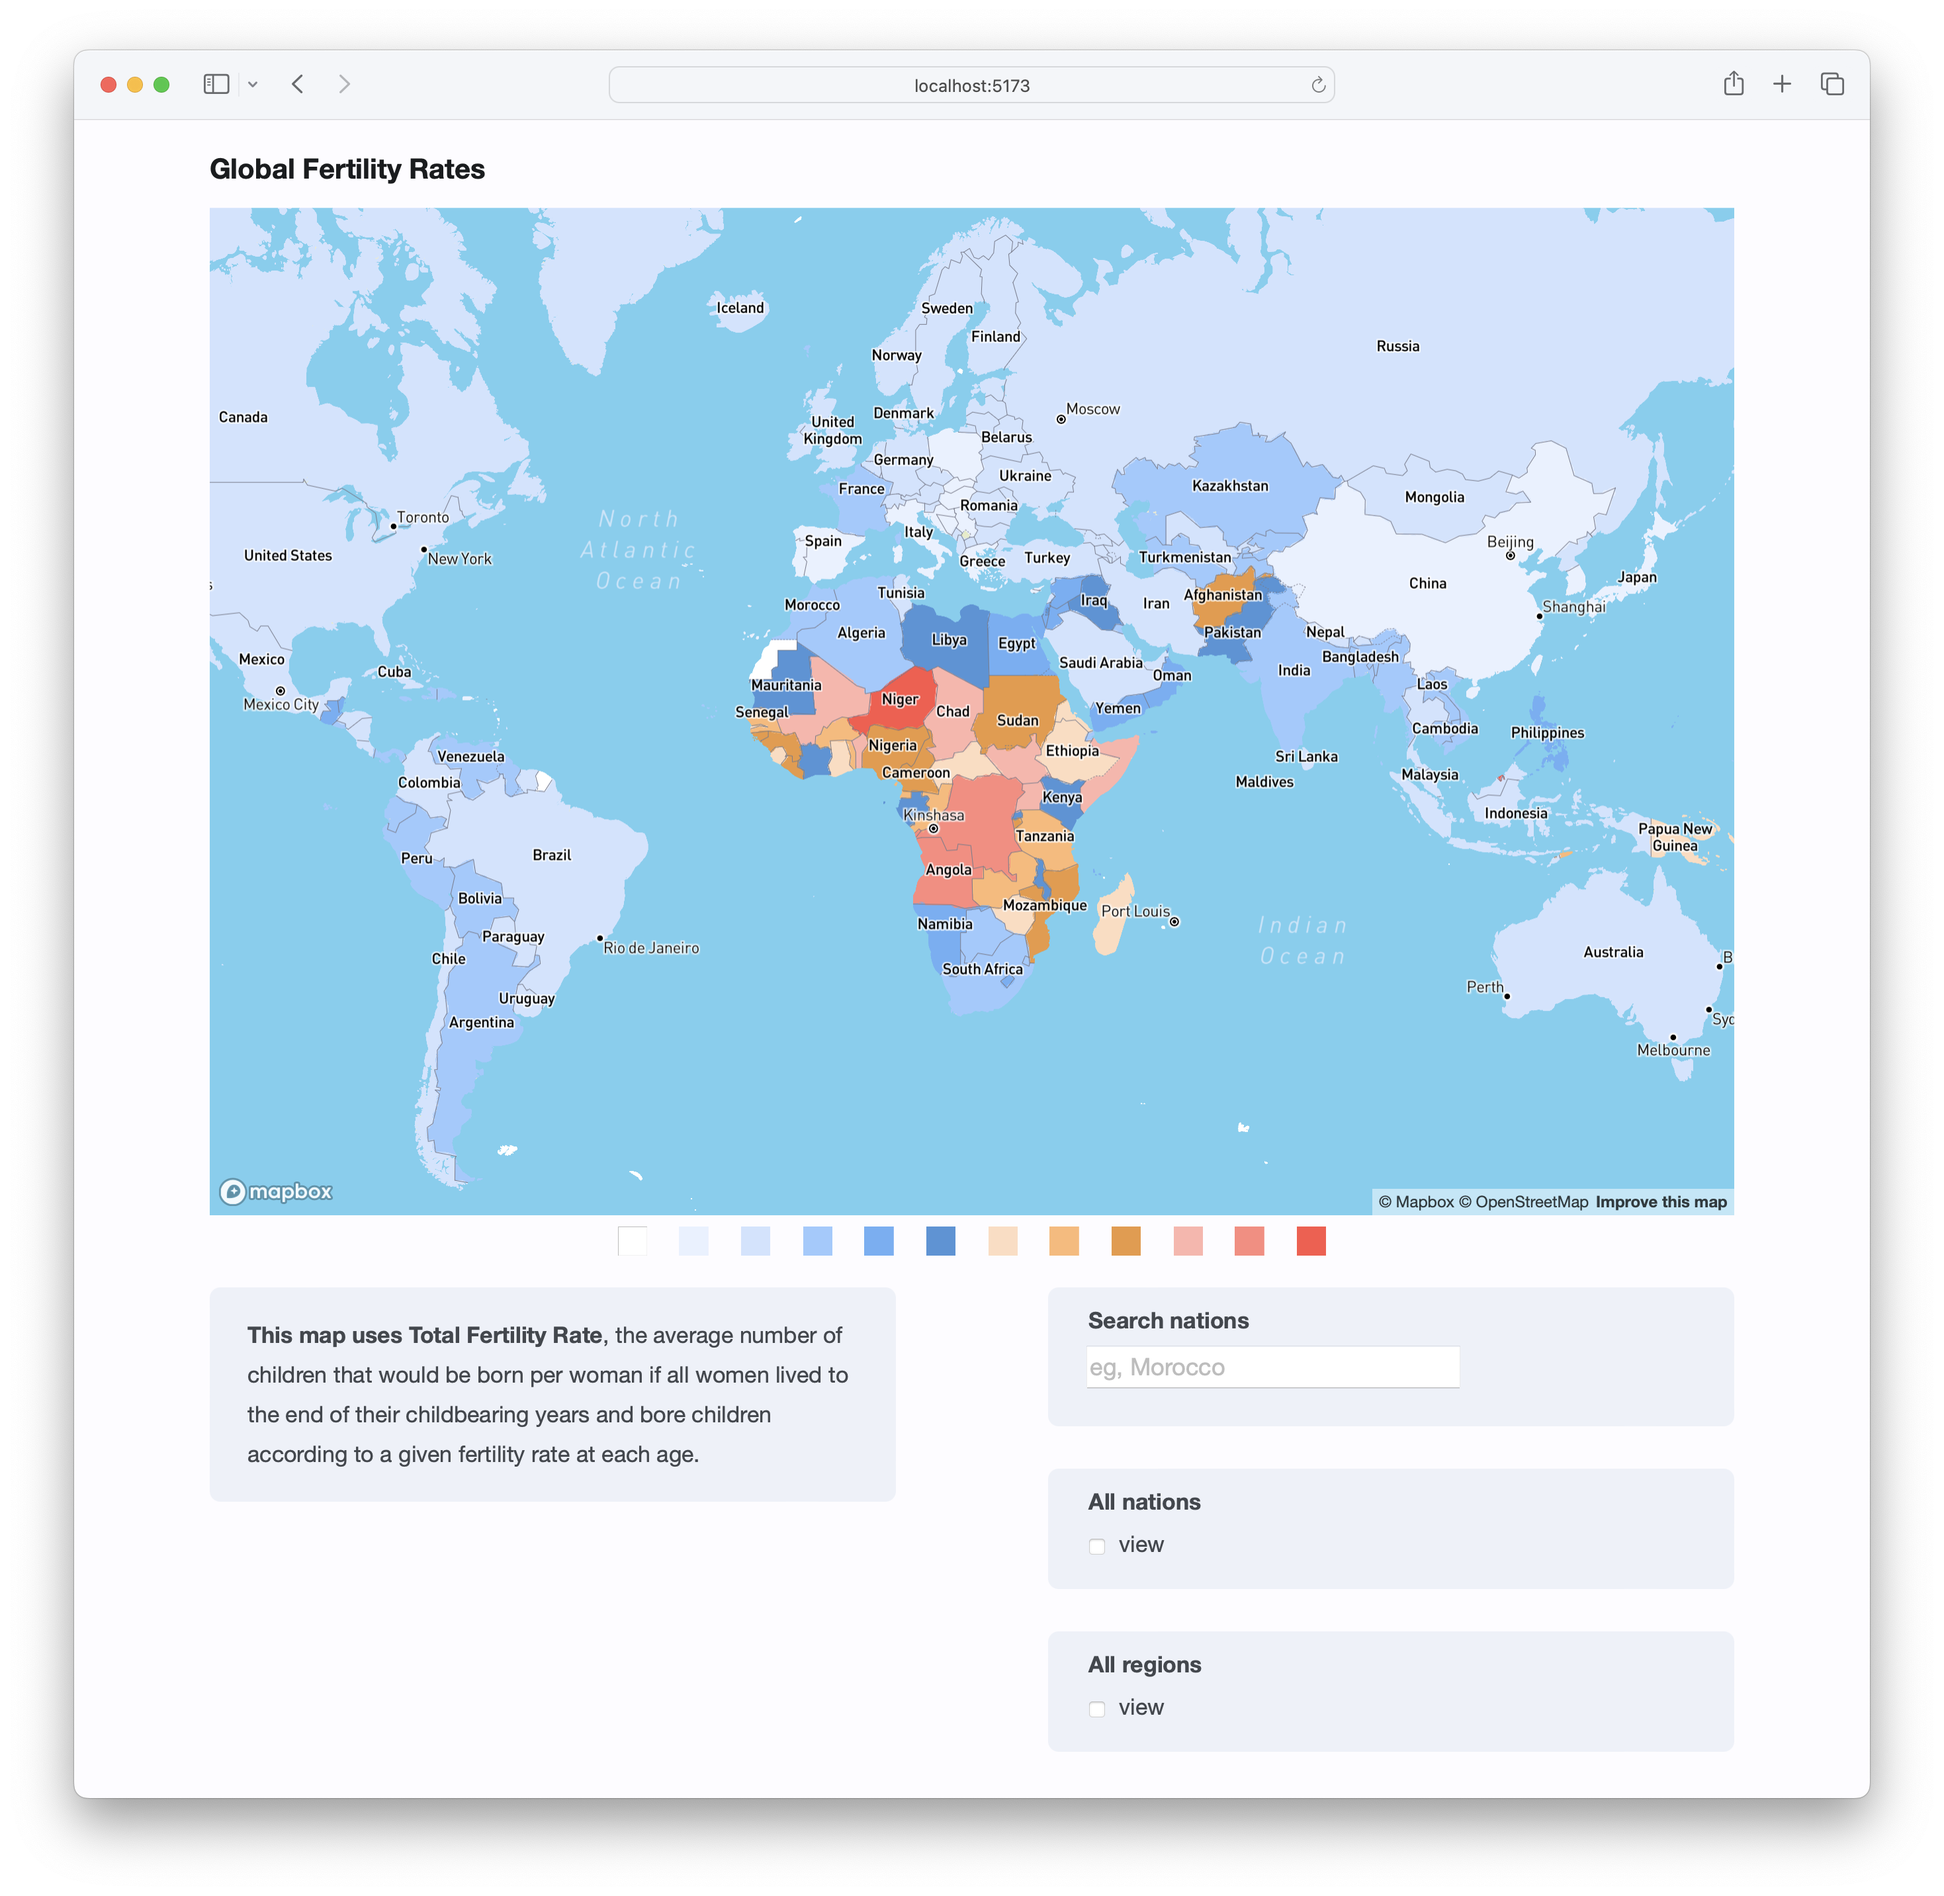
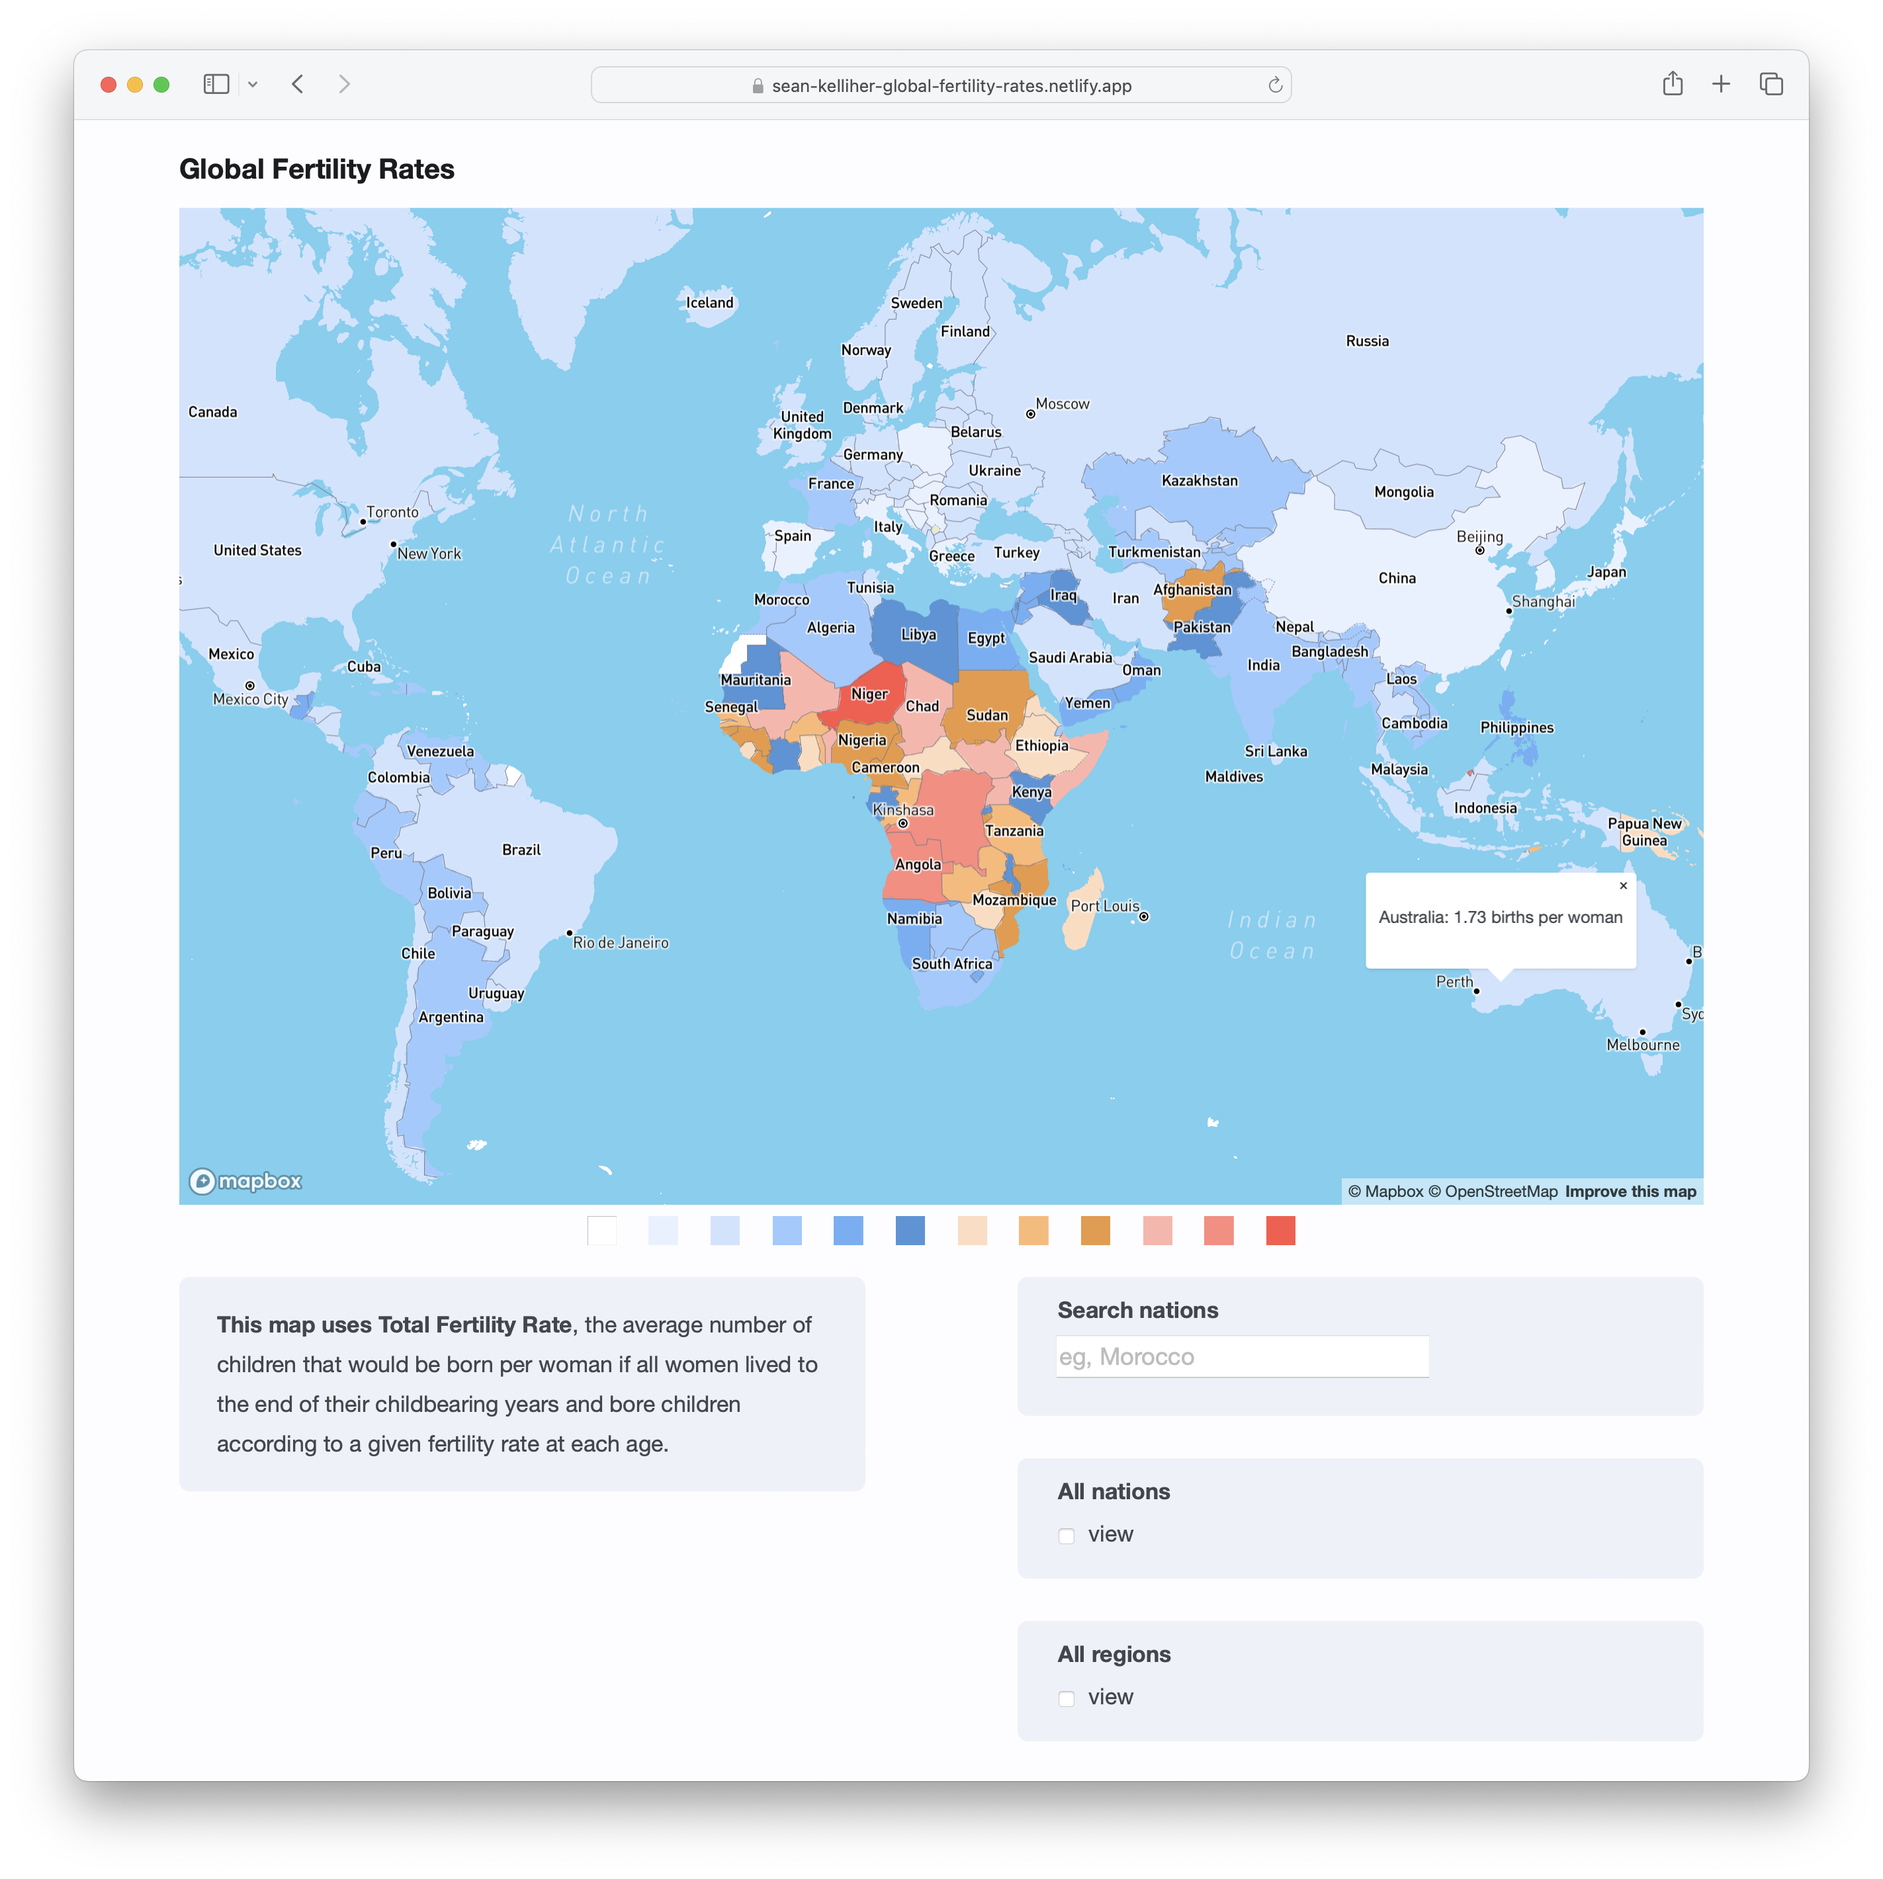
Redo screen shot with Australia selected on map.

diff --git a/README.md b/README.md
@@ -9,7 +9,7 @@ Next steps, I want to do more extensive accessibility and browser testing.
 
 ## Project Screen Shots
 
-* Initial view - larger screens.
+* Default view, but with Australia selected on map.
 ![screen shot of project](/screenshots/global-fertility-rates-screenshot1.png?s=600)
 
 ## Installation and Setup Instructions
